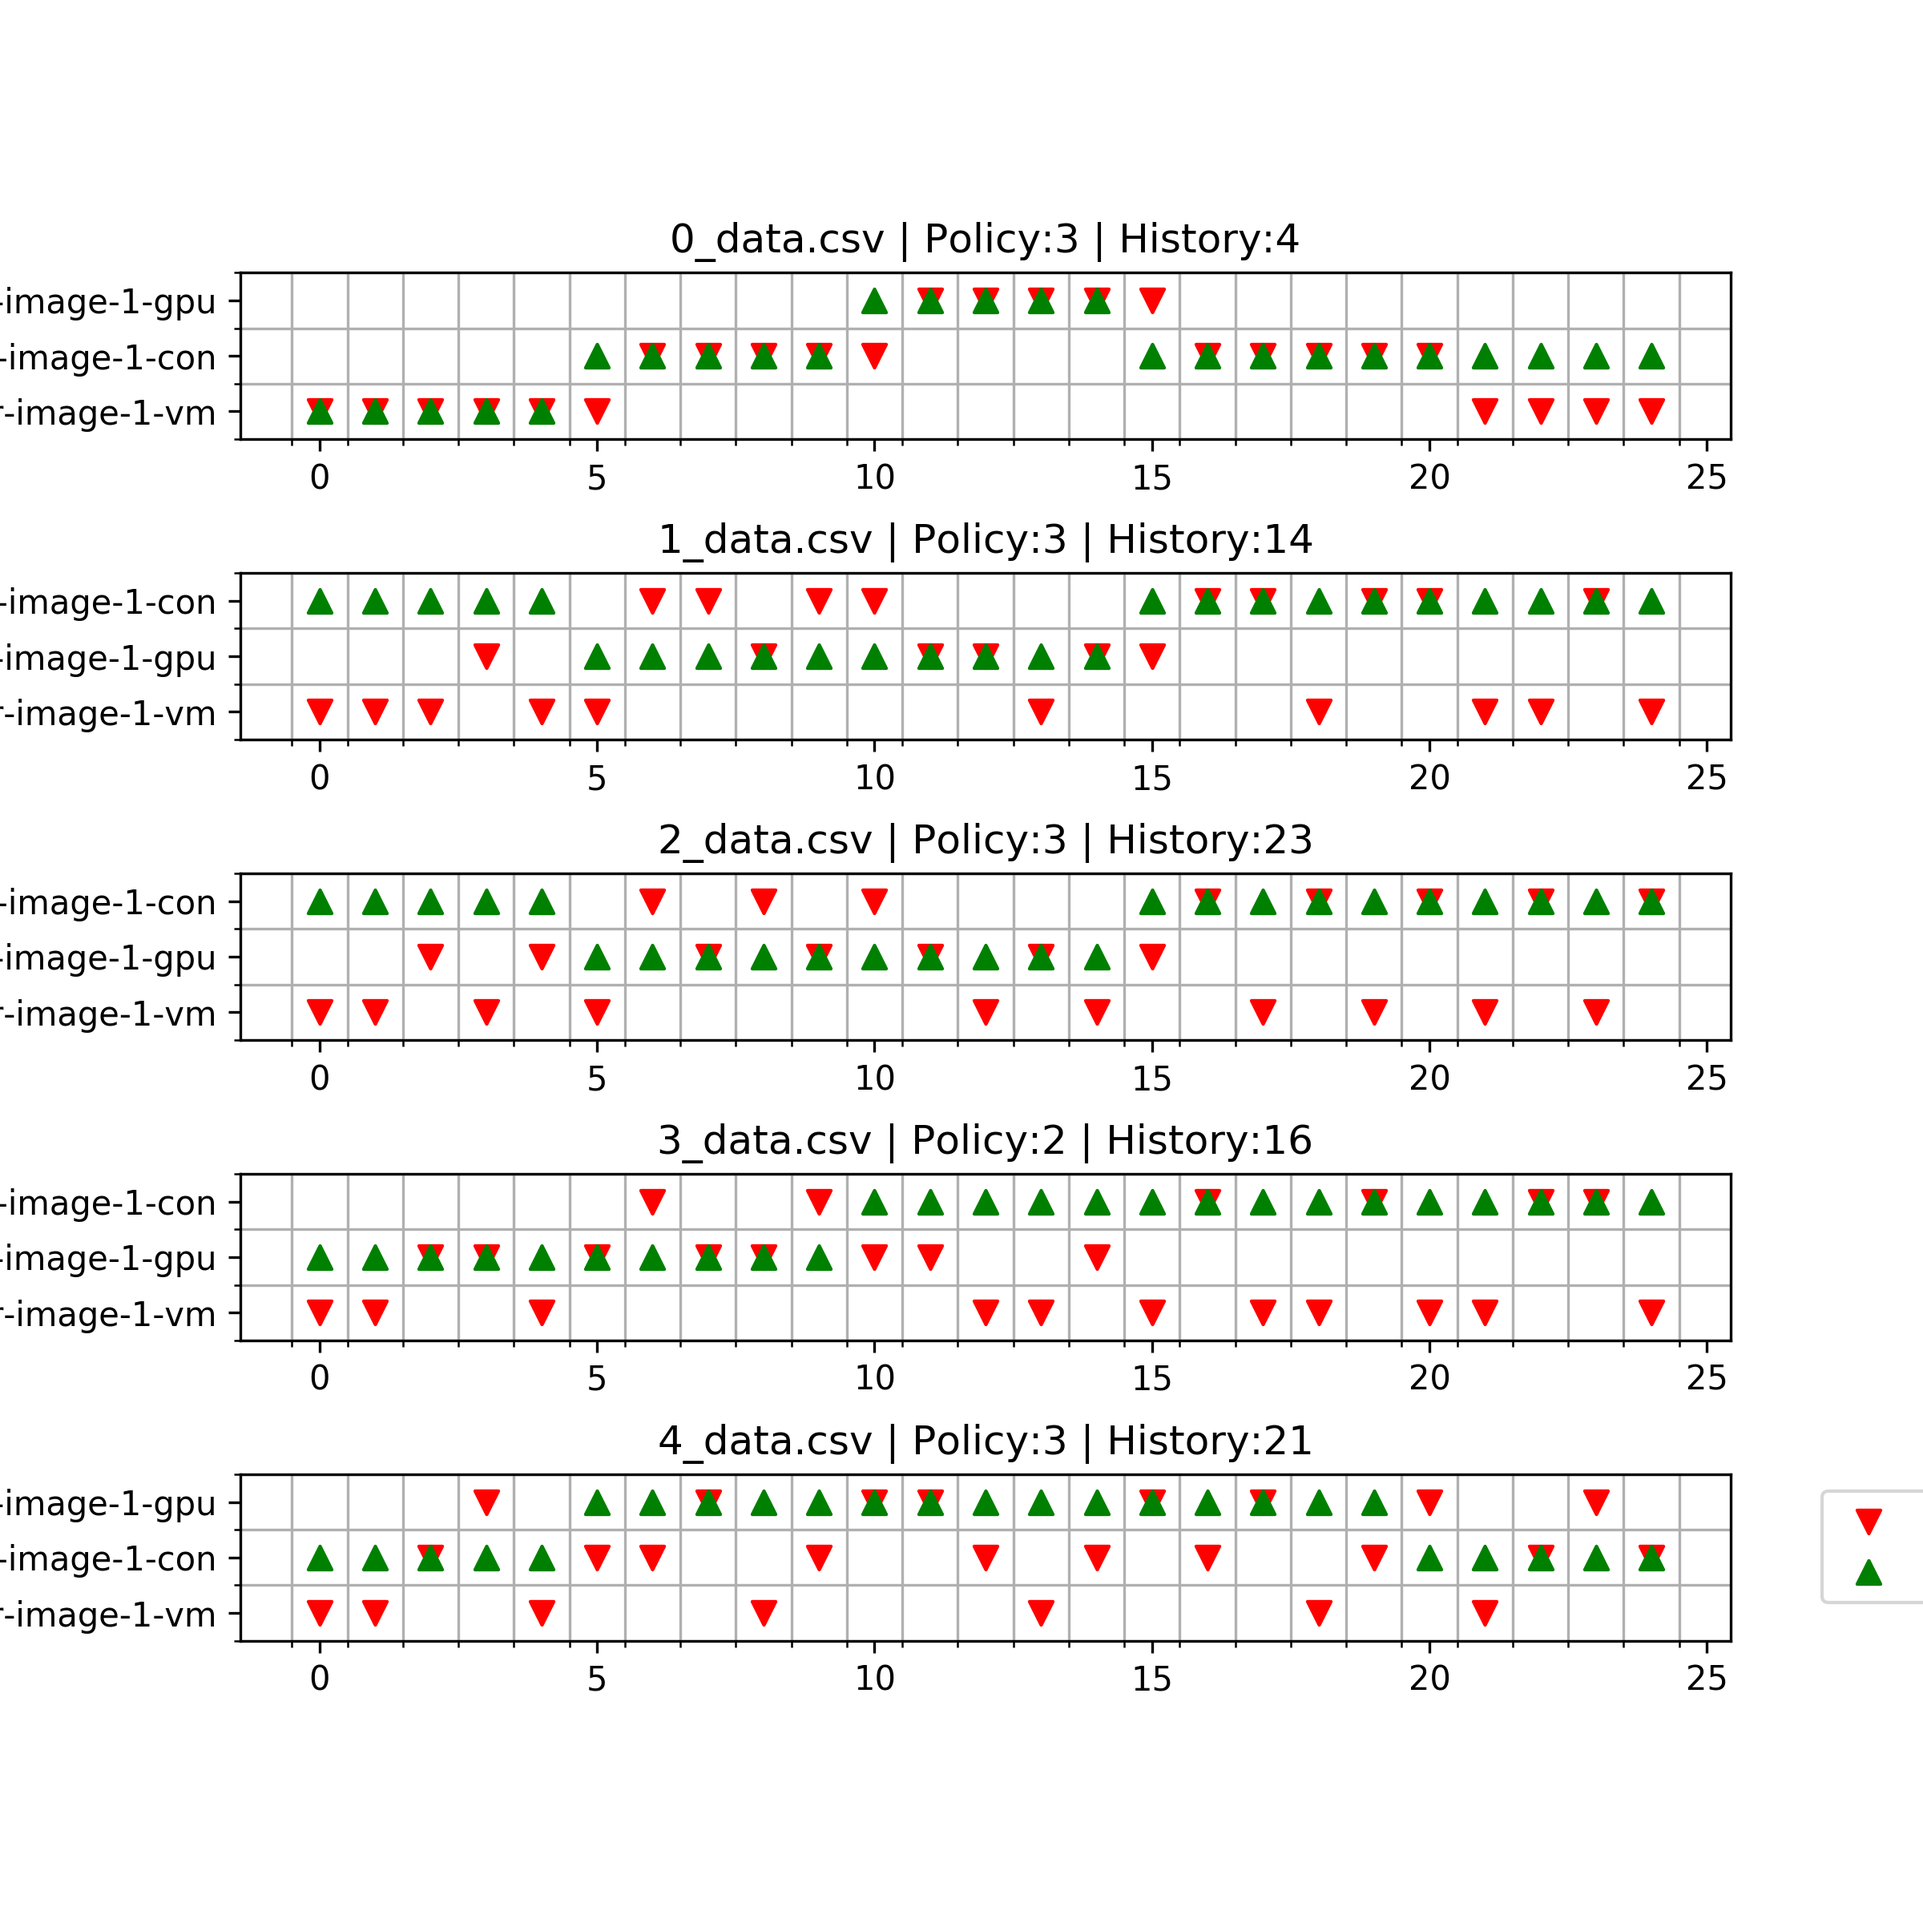
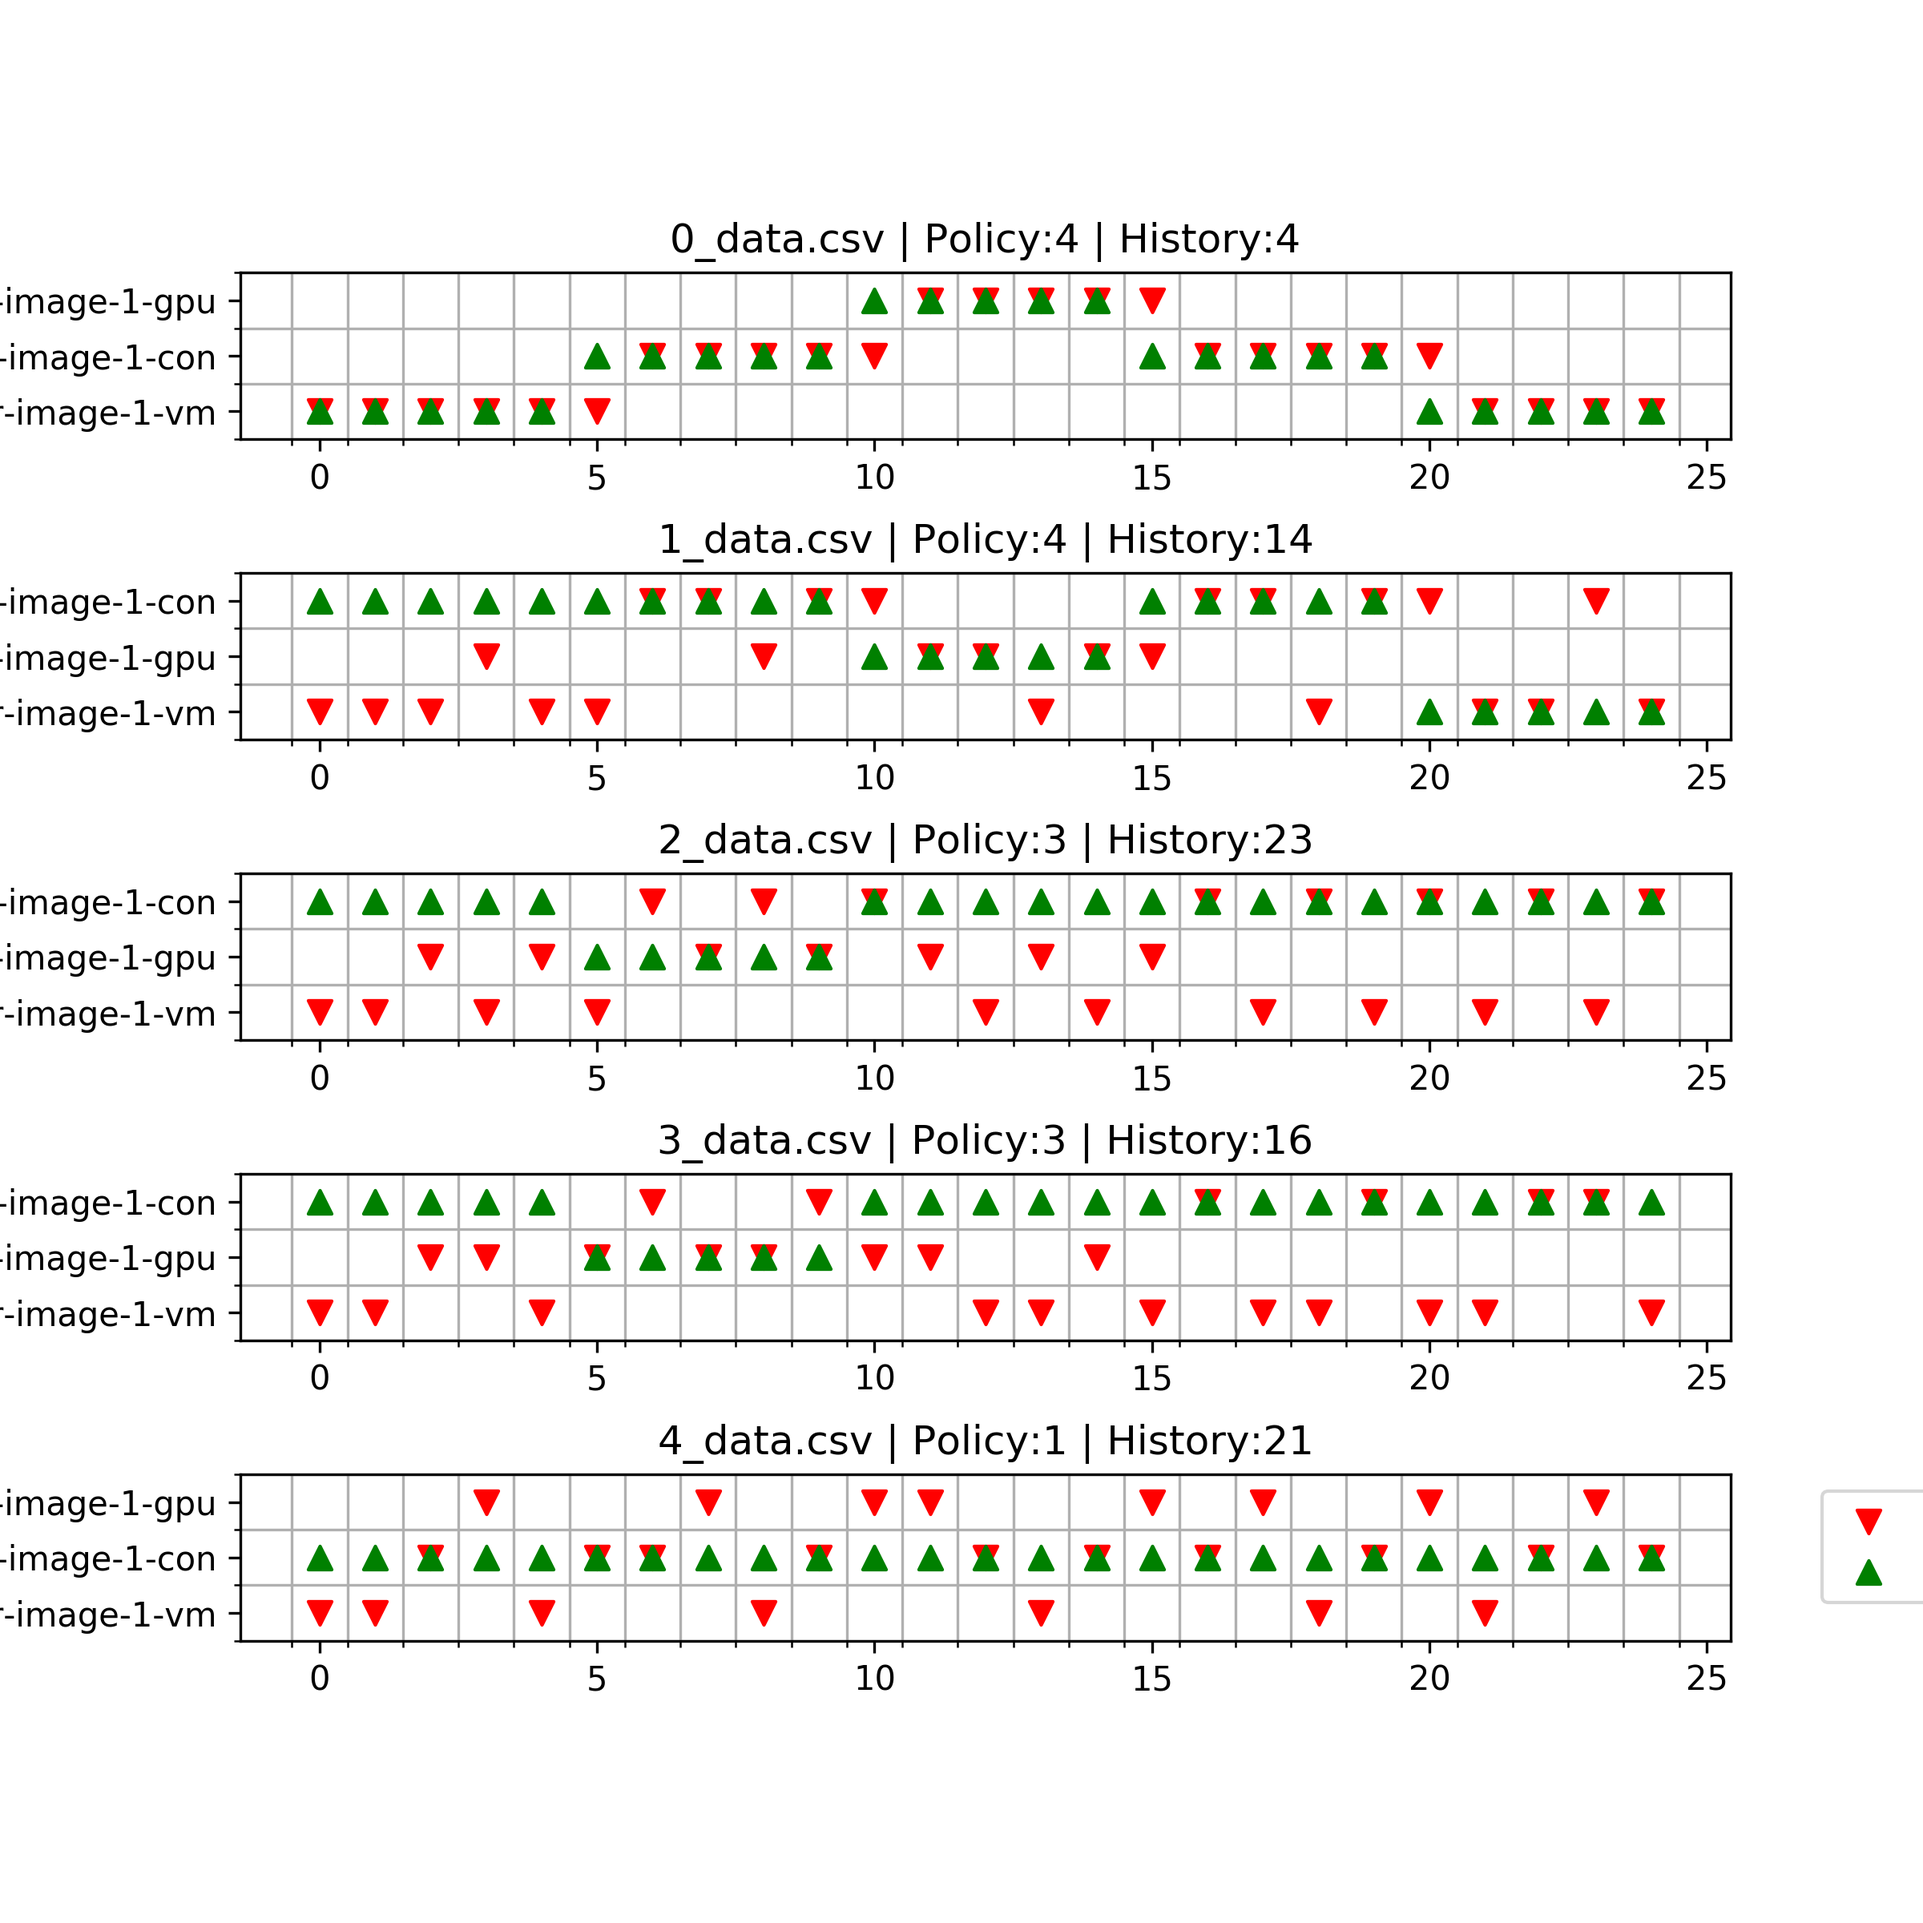
[Fix] Integer normalization [Fix] Colorblind scheme

diff --git a/son-mano-framework/plugins/son-mano-traffic-forecast/notebooks/Policy/policy_generator_WPM.py b/son-mano-framework/plugins/son-mano-traffic-forecast/notebooks/Policy/policy_generator_WPM.py
@@ -138,7 +138,8 @@ Interpolate data points to a certain range
 
 
 def interpolate_array(values, min=_SCORE_MIN, max=_SCORE_MAX):
-    return np.interp(values, (values.min(), values.max()), (min, max))
+    _arr = np.interp(values, (values.min(), values.max()), (min, max))    
+    return np.ceil(_arr)
 
 
 '''
@@ -160,9 +161,9 @@ def build_decision_matrix(prediction, meta, versions):
 
             # Support deviation
             if _vm_version_value['max_data_rate'] > (prediction['mean'] + prediction['std']):
-                _decision_matrix[_vm_type_key][_vm_version_key]["support_deviation"] = 5
+                _decision_matrix[_vm_type_key][_vm_version_key]["support_deviation"] = _SCORE_MAX
             else:
-                _decision_matrix[_vm_type_key][_vm_version_key]["support_deviation"] = 1
+                _decision_matrix[_vm_type_key][_vm_version_key]["support_deviation"] = _SCORE_MIN
 
             # Over Provision
             _decision_matrix[_vm_type_key][_vm_version_key]["over_provision"] = int(
@@ -170,24 +171,24 @@ def build_decision_matrix(prediction, meta, versions):
 
             # Same Version
             if meta["current_version"] == _vm_version_key:
-                _decision_matrix[_vm_type_key][_vm_version_key]["same_version"] = 5
+                _decision_matrix[_vm_type_key][_vm_version_key]["same_version"] = _SCORE_MAX
             else:
-                _decision_matrix[_vm_type_key][_vm_version_key]["same_version"] = 1
+                _decision_matrix[_vm_type_key][_vm_version_key]["same_version"] = _SCORE_MIN
 
             # Overhead
             _decision_matrix[_vm_type_key][_vm_version_key]["overhead"] = _vm_version_value['management_overhead']
 
             # Support max datarate
             if _vm_version_value['max_data_rate'] >= (prediction['max']):
-                _decision_matrix[_vm_type_key][_vm_version_key]["support_max"] = 5
+                _decision_matrix[_vm_type_key][_vm_version_key]["support_max"] = _SCORE_MAX
             else:
-                _decision_matrix[_vm_type_key][_vm_version_key]["support_max"] = 1
+                _decision_matrix[_vm_type_key][_vm_version_key]["support_max"] = _SCORE_MIN
 
             # Support recent history
             if _vm_version_value['max_data_rate'] >= (meta["recent_history"]["mean"]):
-                _decision_matrix[_vm_type_key][_vm_version_key]["support_recent_history"] = 5
+                _decision_matrix[_vm_type_key][_vm_version_key]["support_recent_history"] = _SCORE_MAX
             else:
-                _decision_matrix[_vm_type_key][_vm_version_key]["support_recent_history"] = 1
+                _decision_matrix[_vm_type_key][_vm_version_key]["support_recent_history"] = _SCORE_MIN
 
     decision_matrix_df = pd.DataFrame.from_dict({(i, j): _decision_matrix[i][j]
                                                  for i in _decision_matrix.keys()
@@ -956,17 +957,17 @@ fig.savefig("./results/manual_variation_decision_plot.png",
 
 
 # %%
-
+_SCORE_MIN, _SCORE_MAX = 1, 9
 _acc_pc = "pc_100"
 _results = traffic_grouped[_acc_pc].copy()
 
 # iterate over the dataframe row by row and set version
-prediction = { "mean": 350, "std": 0, "min": 350, "max": 350 }
+prediction = { "mean": 350, "std": 150, "min": 350, "max": 650 }
 prediction_history = { "mean": 1000, "std": 0, "min": 1000, "max": 1000 }
 
 meta = {
-    "current_version": "transcoder-image-1-con",
-    "current_version_history_grouped": "transcoder-image-1-con",
+    "current_version": "transcoder-image-1-gpu",
+    "current_version_history_grouped": "transcoder-image-1-gpu",
     "recent_history": prediction_history
 }
 
@@ -980,15 +981,15 @@ decision_matrix_df = build_decision_matrix(
 # weights = WEIGHTS
 weights = {
     "negative": {
-        "cost": 9,
-        "over_provision": 9,
-        "overhead": 5
+        "cost": 5,
+        "over_provision": 5,
+        "overhead": 7
     },
     "positive": {
-        "support_deviation": 4,
-        "same_version": 5,
-        "support_max": 1,
-        "support_recent_history": 1
+        "support_deviation": 7,
+        "same_version": 7,
+        "support_max": 7,
+        "support_recent_history": 0
     }
 }
 
@@ -1019,8 +1020,9 @@ criteria = [c_cost, c_support_deviation, c_over_provision,
 
 list(decision_matrix_df.index)
 
-get_policy_decision_mcda
+# get_policy_decision_mcda
 
+# %%
 print("WSM")
 data = Data(decision_matrix_df.values, criteria,
             weights=weights,
@@ -1031,6 +1033,7 @@ dm = simple.WeightedSum()
 dec = dm.decide(data)
 print(data.anames[dec.best_alternative_])
 
+# %%
 print("WPM")
 data = Data(decision_matrix_df.values, criteria,
             weights=weights,
@@ -1041,6 +1044,7 @@ dm = simple.WeightedProduct()
 dec = dm.decide(data)
 print(data.anames[dec.best_alternative_])
 
+# %%
 print("TOPSIS")
 data = Data(decision_matrix_df.values, criteria,
             weights=weights,

diff --git a/son-mano-framework/plugins/son-mano-traffic-forecast/notebooks/Policy/policy_generator_scatter.py b/son-mano-framework/plugins/son-mano-traffic-forecast/notebooks/Policy/policy_generator_scatter.py
@@ -38,9 +38,9 @@ WEIGHTS = {
         "overhead": 1
     },
     "positive": {
-        "support_deviation": 10,
-        "same_version": 5,
-        "support_max": 8,
+        "support_deviation": 1,
+        "same_version": 2,
+        "support_max": 1,
         "support_recent_history": 0
     }
 }
@@ -135,8 +135,8 @@ Interpolate data points to a certain range
 
 
 def interpolate_array(values, min=_SCORE_MIN, max=_SCORE_MAX):
-    return np.interp(values, (values.min(), values.max()), (min, max))
-
+    _arr = np.interp(values, (values.min(), values.max()), (min, max))    
+    return np.ceil(_arr)
 
 '''
 Build the decision matrix for a given traffic prediction values 
@@ -823,9 +823,20 @@ for _traffic_file in traffic_files:
 # https://stackoverflow.com/questions/53766397/how-to-center-the-grid-of-a-plot-on-scatter-points
 # https://stackoverflow.com/questions/47684652/how-to-customize-marker-colors-and-shapes-in-scatter-plot
 markers = ["v" , "^" , "v" , ">" , "^" , "<", ">"]
-colors = ['r','g','b','c','m', 'y', 'k']
+colors = ['#0173b2',
+ '#de8f05',
+ '#029e73',
+ '#d55e00',
+ '#cc78bc',
+ '#ca9161',
+ '#fbafe4',
+ '#949494',
+ '#ece133',
+ '#56b4e9']
 
 sns.reset_orig()
+sns.set_palette("colorblind")
+
 fig, ax = plt.subplots(5, figsize=(8,8))
 _counter = 0
 for _traffic_file in traffic_files:
@@ -899,7 +910,7 @@ fig.savefig("./results/manual_variation_decision_scatter.png",
             dpi=300)
 
 # %%
-sns.set_style("darkgrid")
+sns.set_style("whitegrid")
 fig, ax = plt.subplots(5, figsize=(8,8))
 _counter = 0
 for _traffic_file in traffic_files:
@@ -926,8 +937,8 @@ for _traffic_file in traffic_files:
     ax[_counter].get_xaxis().set_minor_locator(plticker.AutoMinorLocator())
     ax[_counter].get_yaxis().set_minor_locator(plticker.AutoMinorLocator())
     ax[_counter].grid(b=False)
-    ax[_counter].grid(b=True, axis="x", which='minor', color='w', linewidth=1.0)
-    ax[_counter].grid(b=True, axis="x", which='major', color='w', linewidth=1.0)
+    ax[_counter].grid(b=True, axis="x", which='minor', color='lightgrey', linewidth=1.0)
+    ax[_counter].grid(b=True, axis="x", which='major', color='lightgrey', linewidth=1.0)
 
     _counter += 1
 

diff --git a/son-mano-framework/plugins/son-mano-mv-policy/son_mano_mv_policy/policy.py b/son-mano-framework/plugins/son-mano-mv-policy/son_mano_mv_policy/policy.py
@@ -188,7 +188,20 @@ class PolicyPlugin(ManoBasePlugin):
 
         elif content['request_type'] == 'get_policy_version':
             LOG.info("Get prediction")
+            MV_POLICY = "mano.service.policy"
+
             if DEBUG_MODE:
+                LOG.info("Prediction Debug")
+                
+                response = {
+                    "serv_id": content['serv_id'],
+                    "deployment": None,
+                }
+                
+                self.manoconn.notify(MV_POLICY,
+                                    yaml.dump(response),
+                                    correlation_id=prop.correlation_id)
+
                 return
                 
             serv_id = content['serv_id']

diff --git a/son-mano-framework/plugins/son-mano-traffic-forecast/notebooks/Policy/policy_generator_runs.py b/son-mano-framework/plugins/son-mano-traffic-forecast/notebooks/Policy/policy_generator_runs.py
@@ -24,7 +24,7 @@ LIMIT_DATASET = False
 LOOK_AHEAD = 5  # Mins (factor of shape)
 EXPERIMENT_RUNS = 30
 
-FOLDER_REF = "report-price-fix-extended-30runs-2"
+FOLDER_REF = "report-topsis-extended-30runs-1"
 MCDA_METHOD = "TOPSIS"
 if not os.path.exists("./results/{}".format(FOLDER_REF)):
     os.makedirs("./results/{}/data".format(FOLDER_REF))
@@ -139,7 +139,8 @@ Interpolate data points to a certain range
 
 
 def interpolate_array(values, min=_SCORE_MIN, max=_SCORE_MAX):
-    return np.interp(values, (values.min(), values.max()), (min, max))
+    _arr = np.interp(values, (values.min(), values.max()), (min, max))    
+    return np.ceil(_arr)
 
 
 '''

diff --git a/son-mano-framework/plugins/son-mano-mv-policy/son_mano_mv_policy/policy_helpers.py b/son-mano-framework/plugins/son-mano-mv-policy/son_mano_mv_policy/policy_helpers.py
@@ -56,8 +56,8 @@ def get_supported_versions(prediction, versions):
 Interpolate data points to a certain range
 '''
 def interpolate_array(values, min=_SCORE_MIN, max=_SCORE_MAX):
-    return np.interp(values, (values.min(), values.max()), (min, max))
-
+    _arr = np.interp(values, (values.min(), values.max()), (min, max))    
+    return np.ceil(_arr)
 
 '''
 Build the decision matrix for a given traffic prediction values 
